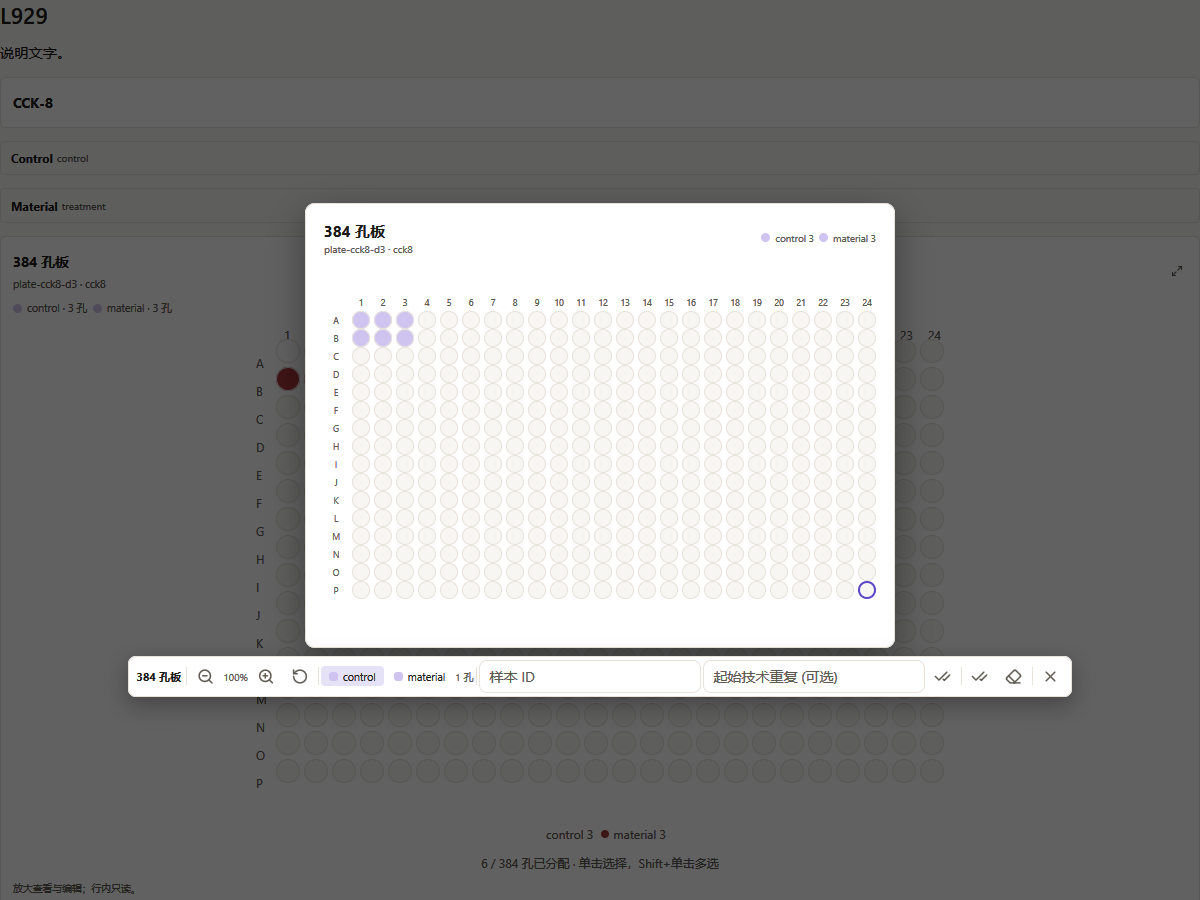
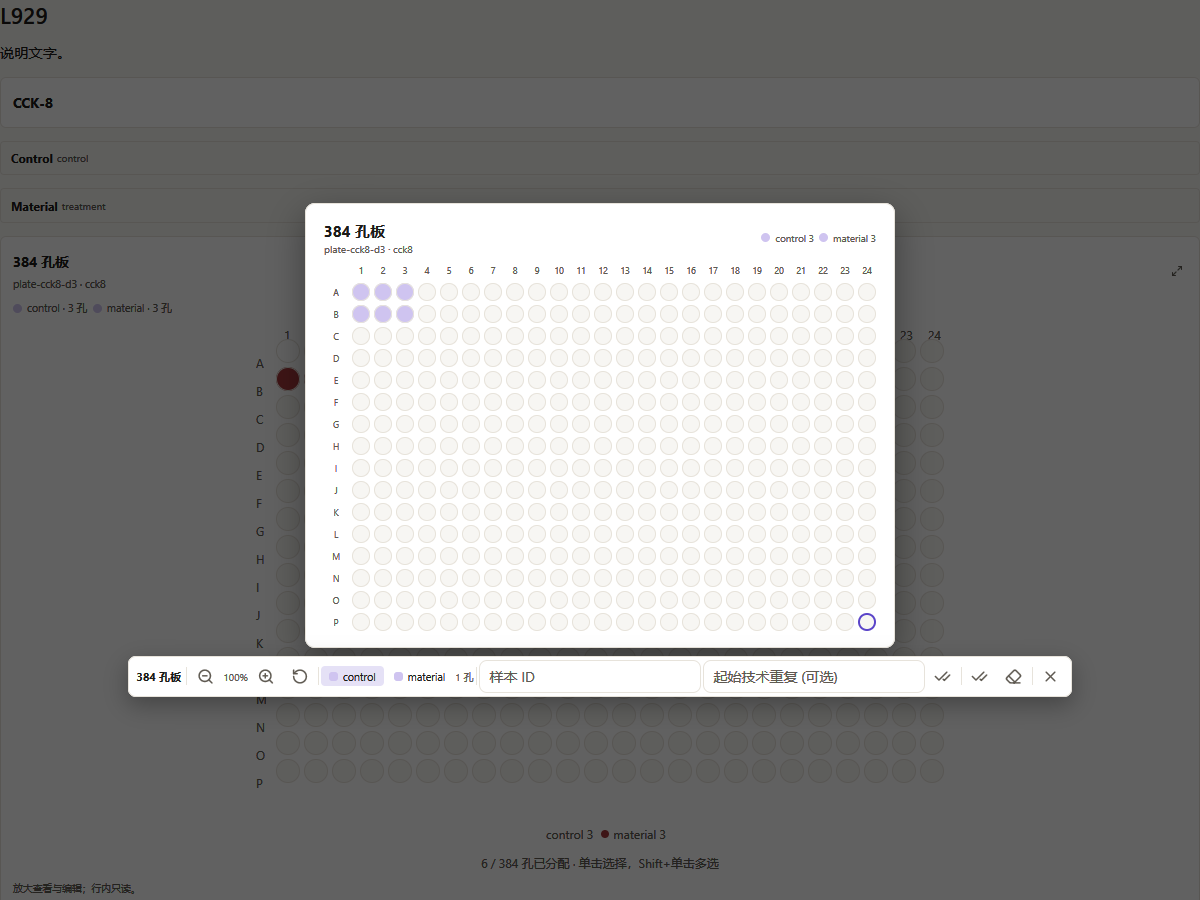
fix(ui): keep plate overlay footprint consistent

diff --git a/prototypes/mygo-run/internal/asterdoc/view.go b/prototypes/mygo-run/internal/asterdoc/view.go
@@ -53,12 +53,11 @@ type View struct {
 	PlateReplicateStart string
 	PlateSampleError    string
 	PlateZoom           float32
-	marqueeActive       bool
-	marqueeRow          int
-	marqueeCol          int
-	marqueeBase         []string
-	gridDrag            ui.Point
+	gridPointerDown     bool
+	gridPointerStart    ui.Point
 	gridDragging        bool
+	gridAdditive        bool
+	gridSuppressClick   bool
 	gridStart           ui.Point
 	gridLast            ui.Point
 	gridBase            []string
@@ -241,6 +240,8 @@ func plateGridLayout(geometry Geometry, zoom float32) (viewportW, viewportH, cel
 // modal panel or inspector: the plate itself is the surface, with one floating
 // toolbar for zoom, group choice and batch assignment.
 func (v *View) plateOverlay(c *ui.Context) {
+	suppressGridClick := v.gridSuppressClick
+	v.gridSuppressClick = false
 	if v.ExpandedPlate == "" {
 		return
 	}
@@ -375,13 +376,6 @@ func (v *View) plateOverlay(c *ui.Context) {
 							})
 						})
 						viewportW, viewportH, cell := plateGridLayout(geometry, zoom)
-						gridW := plateGridLabelWidth + plateGridGap +
-							float32(geometry.Columns)*cell +
-							float32(geometry.Columns-1)*plateGridGap
-						gridH := plateGridHeaderHeight + plateGridGap +
-							float32(geometry.Rows)*cell +
-							float32(geometry.Rows-1)*plateGridGap
-						offsetX, offsetY := (viewportW-gridW)/2, (viewportH-gridH)/2
 						selectMany := func(ids []string, additive bool) {
 							if !additive {
 								v.ExpandedWells = nil
@@ -392,8 +386,29 @@ func (v *View) plateOverlay(c *ui.Context) {
 								}
 							}
 						}
-						grid := ui.Box(c).Key("plate-grid").Size(viewportW, viewportH).Children(func() {
-							ui.Column(c).Fill().AlignItems(ui.Center).Justify(ui.Center).Children(func() {
+						applyMarquee := func() {
+							x0, y0 := v.gridStart.X, v.gridStart.Y
+							x1, y1 := v.gridLast.X, v.gridLast.Y
+							if x0 > x1 {
+								x0, x1 = x1, x0
+							}
+							if y0 > y1 {
+								y0, y1 = y1, y0
+							}
+							selected := WellsInRect(geometry, cell, plateGridGap,
+								ui.Rect{X: x0, Y: y0, W: x1 - x0, H: y1 - y0})
+							v.ExpandedWells = v.ExpandedWells[:0]
+							if v.gridAdditive {
+								v.ExpandedWells = append(v.ExpandedWells, v.gridBase...)
+							}
+							for _, id := range selected {
+								if !containsString(v.ExpandedWells, id) {
+									v.ExpandedWells = append(v.ExpandedWells, id)
+								}
+							}
+						}
+						ui.Box(c).Key("plate-grid").Size(viewportW, viewportH).Children(func() {
+							ui.Column(c).Fill().Gap(plateGridGap).AlignItems(ui.Center).Justify(ui.Center).Children(func() {
 								ui.Row(c).Gap(plateGridGap).Children(func() {
 									ui.Box(c).Width(plateGridLabelWidth).Height(plateGridHeaderHeight)
 									for col := 1; col <= geometry.Columns; col++ {
@@ -404,7 +419,7 @@ func (v *View) plateOverlay(c *ui.Context) {
 											ui.Text(c, fmt.Sprintf("%d", col)).FontSize(t.Rem(.62)).
 												TextColor(t.TextMuted).Center()
 										})
-										if btn.Clicked() && !v.gridDragging {
+										if btn.Clicked() && !v.gridDragging && !suppressGridClick {
 											ids := make([]string, 0, geometry.Rows)
 											for row := 0; row < geometry.Rows; row++ {
 												ids = append(ids, fmt.Sprintf("%s%d", rowLabel(row), col))
@@ -421,7 +436,7 @@ func (v *View) plateOverlay(c *ui.Context) {
 										btn.Children(func() {
 											ui.Text(c, rowLabel(row)).FontSize(t.Rem(.62)).TextColor(t.TextMuted).Center()
 										})
-										if btn.Clicked() && !v.gridDragging {
+										if btn.Clicked() && !v.gridDragging && !suppressGridClick {
 											ids := make([]string, 0, geometry.Columns)
 											for col := 1; col <= geometry.Columns; col++ {
 												ids = append(ids, fmt.Sprintf("%s%d", rowLabel(row), col))
@@ -429,6 +444,7 @@ func (v *View) plateOverlay(c *ui.Context) {
 											selectMany(ids, btn.ClickModifiers()&(ui.Shift|ui.Cmd) != 0)
 										}
 										for col := 1; col <= geometry.Columns; col++ {
+											col := col
 											well := fmt.Sprintf("%s%d", rowLabel(row), col)
 											group := wells[well]
 											selected := containsString(v.ExpandedWells, well)
@@ -443,7 +459,65 @@ func (v *View) plateOverlay(c *ui.Context) {
 											}
 											btn := ui.ButtonBase(c).Key(well).Size(cell, cell).Radius(cell/2).
 												Background(bg).Border(width, border).Label("孔 " + well)
-											if btn.Clicked() && !v.gridDragging {
+											cellPoint := func(x, y float32) ui.Point {
+												return ui.Point{
+													X: float32(col-1)*(cell+plateGridGap) + x,
+													Y: float32(row)*(cell+plateGridGap) + y,
+												}
+											}
+											btn = btn.HandleInput(func(event ui.InputEvent) bool {
+												if (event.Kind == ui.InputPointerDown || event.Kind == ui.InputPointerUp) &&
+													event.Button != 0 {
+													return false
+												}
+												switch event.Kind {
+												case ui.InputPointerDown:
+													point := cellPoint(event.X, event.Y)
+													v.gridPointerDown = true
+													v.gridPointerStart = ui.Point{X: event.X, Y: event.Y}
+													v.gridStart, v.gridLast = point, point
+													v.gridDragging = false
+													v.gridAdditive = event.Mods&(ui.Shift|ui.Cmd) != 0
+													v.gridBase = append(v.gridBase[:0], v.ExpandedWells...)
+													return false
+												case ui.InputPointerMove:
+													if !v.gridPointerDown {
+														return false
+													}
+													dx := event.X - v.gridPointerStart.X
+													dy := event.Y - v.gridPointerStart.Y
+													if !v.gridDragging {
+														if dx > -3 && dx < 3 && dy > -3 && dy < 3 {
+															return false
+														}
+														v.gridDragging = true
+													}
+													v.gridLast = cellPoint(event.X, event.Y)
+													applyMarquee()
+													return true
+												case ui.InputPointerUp:
+													if !v.gridPointerDown {
+														return false
+													}
+													v.gridPointerDown = false
+													if !v.gridDragging {
+														v.gridBase = nil
+														return false
+													}
+													if event.Canceled {
+														v.ExpandedWells = append(v.ExpandedWells[:0], v.gridBase...)
+													} else {
+														v.gridLast = cellPoint(event.X, event.Y)
+														applyMarquee()
+													}
+													v.gridDragging = false
+													v.gridSuppressClick = true
+													v.gridBase = nil
+													return true
+												}
+												return false
+											})
+											if btn.Clicked() && !v.gridDragging && !suppressGridClick {
 												mods := btn.ClickModifiers()
 												if mods&(ui.Shift|ui.Cmd) != 0 {
 													if selected {
@@ -460,39 +534,6 @@ func (v *View) plateOverlay(c *ui.Context) {
 								}
 							})
 						})
-						grid.Draggable(&v.gridDrag, ui.DraggableOptions{})
-						if grid.Dragging() {
-							px, py, ok := grid.PointerPosition()
-							if ok {
-								local := ui.Point{
-									X: px - offsetX - plateGridLabelWidth - plateGridGap,
-									Y: py - offsetY - plateGridHeaderHeight - plateGridGap,
-								}
-								if !v.gridDragging {
-									v.gridDragging = true
-									v.gridStart, v.gridLast = local, local
-									v.gridBase = append([]string(nil), v.ExpandedWells...)
-									if c.Modifiers()&(ui.Shift|ui.Cmd) == 0 {
-										v.ExpandedWells = nil
-									}
-								}
-								v.gridLast = local
-								r := ui.Rect{X: v.gridStart.X, Y: v.gridStart.Y,
-									W: local.X - v.gridStart.X, H: local.Y - v.gridStart.Y}
-								selected := WellsInRect(geometry, cell, plateGridGap, r)
-								v.ExpandedWells = append([]string(nil), v.gridBase...)
-								for _, id := range selected {
-									if !containsString(v.ExpandedWells, id) {
-										v.ExpandedWells = append(v.ExpandedWells, id)
-									}
-								}
-							}
-						} else if v.gridDragging {
-							v.gridDragging = false
-							if v.gridLast.X == v.gridStart.X && v.gridLast.Y == v.gridStart.Y {
-								v.ExpandedWells = append([]string(nil), v.gridBase...)
-							}
-						}
 					})
 				})
 				// Floating toolbar: directly above the plate, not a modal panel.

diff --git a/prototypes/mygo-run/internal/asterdoc/asterdoc_test.go b/prototypes/mygo-run/internal/asterdoc/asterdoc_test.go
@@ -2,7 +2,6 @@ package asterdoc
 
 import (
 	"encoding/json"
-	"image/png"
 	"os"
 	"strconv"
 	"strings"
@@ -104,10 +103,6 @@ func TestViewRendersNativePlateAndAssignRewritesSource(t *testing.T) {
 		v.Render(c)
 	}, 1000, 900)
 	tt.Frame()
-	if f, err := os.Create("evidence-asterdoc.png"); err == nil {
-		png.Encode(f, tt.Image())
-		f.Close()
-	}
 	if !tt.HasText("96 孔板") || !tt.HasText("plate-cck8-d3") {
 		t.Fatalf("plate module did not render: %q", tt.Texts())
 	}
@@ -228,10 +223,6 @@ func TestPlateZoomOverlaySelectsWellsAndReportsAssignment(t *testing.T) {
 	if !tt.HasText("1 孔") {
 		t.Fatalf("selection missing: %q", tt.Texts())
 	}
-	if f, err := os.Create("evidence-plate-zoom.png"); err == nil {
-		png.Encode(f, tt.Image())
-		f.Close()
-	}
 	if err := tt.Click("分配到 control"); err != nil {
 		t.Fatalf("assign: %v", err)
 	}
@@ -268,8 +259,49 @@ func TestPlateZoomOverlaySelectsWellsAndReportsAssignment(t *testing.T) {
 	tt.Frame()
 	tt.Release(cx, cy)
 	tt.Frame()
-	if !tt.HasText("3 孔") {
-		t.Fatalf("marquee selection missing: %q", tt.Texts())
+	if _, ok := tt.Find("3 孔"); !ok || len(v.ExpandedWells) != 3 ||
+		!containsString(v.ExpandedWells, "A1") ||
+		!containsString(v.ExpandedWells, "A2") ||
+		!containsString(v.ExpandedWells, "A3") {
+		t.Fatalf("marquee selected %v; want A1, A2, A3", v.ExpandedWells)
+	}
+}
+func TestPlate384OverlayMarqueeUsesRows(t *testing.T) {
+	source := strings.Replace(sample, "format: 96", "format: 384", 1)
+	doc, err := Parse(source)
+	if err != nil {
+		t.Fatal(err)
+	}
+	v := &View{Doc: doc, Allowed: map[string]bool{PermDocumentEdit: true}}
+	tt := ui.NewTester(func(c *ui.Context) {
+		c.SetTheme(theme.LightTheme())
+		v.Render(c)
+	}, 1200, 900)
+	tt.Frame()
+	if err := tt.Click("放大孔板"); err != nil {
+		t.Fatal(err)
+	}
+	tt.Frame()
+	center := func(well string) (float32, float32) {
+		rect, ok := tt.Find("孔 " + well)
+		if !ok {
+			t.Fatalf("well %s not found", well)
+		}
+		return rect.X + rect.W/2, rect.Y + rect.H/2
+	}
+	ax, ay := center("A1")
+	cx, cy := center("C1")
+	tt.Press(ax, ay)
+	tt.Frame()
+	tt.Move(cx, cy)
+	tt.Frame()
+	tt.Release(cx, cy)
+	tt.Frame()
+	if _, ok := tt.Find("3 孔"); !ok || len(v.ExpandedWells) != 3 ||
+		!containsString(v.ExpandedWells, "A1") ||
+		!containsString(v.ExpandedWells, "B1") ||
+		!containsString(v.ExpandedWells, "C1") {
+		t.Fatalf("vertical marquee selected %v; want A1, B1, C1", v.ExpandedWells)
 	}
 }
 

diff --git a/docs/product/evidence/UI-DES-10/README.md b/docs/product/evidence/UI-DES-10/README.md
@@ -22,9 +22,15 @@ Post-change captures rendered through the `ui.Tester` harness against the produc
 - [design-plate-tester-900x600.png](design-plate-tester-900x600.png) — Design pane `12 孔板` section with the `流程 / 12 孔板 / 配液单` switch (the prep-calculator link) and the source-labeled budget bar.
 - [design-prep-tester-900x600.png](design-prep-tester-900x600.png) — Design pane `配液单` dilution-calculator surface (`母液 2.5 µL · 稀释液 7.5 µL`).
 
-All captures show the `设计标注` fallback with Core budget fields `—` and no OperationSpec v2 time data; the sources are not combined. `internal/asterdoc` tests cover the shared canvas, scaled wells, and interactive 6/12/24/48/96/384 geometry. The legacy assay assignment path remains 12-well-specific.
+Post-change native-app captures after the fixed-canvas update (`mygo-automation`; 900×600 logical window, emitted as 1328×888 PNGs on this Windows host). The modal overlays the Design page; these prove well sizing and selection, not prep linkage or budget-bar content:
+- [native-12-light-900x600.png](native-12-light-900x600.png) — light, 12 wells, C4 selected and assigned to `g-control`.
+- [native-12-dark-900x600.png](native-12-dark-900x600.png) — dark, 12 wells, C4 selected and assigned to `g-control`.
+- [native-384-light-900x600.png](native-384-light-900x600.png) — light, 384 wells, P24 selected and assigned to `g-control`.
+- [native-384-dark-900x600.png](native-384-dark-900x600.png) — dark, 384 wells, P24 selected and assigned to `g-control`.
 
-Verification (`O:/des10/prototypes/mygo-run`, 2026-11-16):
+The design-page captures show the `设计标注` fallback with Core budget fields `—` and no OperationSpec v2 time data; the sources are not combined. Native-app overlays focus on well geometry and are not budget-bar evidence. `internal/asterdoc` tests cover the shared canvas, scaled wells, and interactive 6/12/24/48/96/384 geometry. The legacy assay assignment path remains 12-well-specific.
+
+Verification (`O:/ui-des10fix/prototypes/mygo-run`, 2026-11-16):
 
 ```text
 ok  asterlab-mygo-prototype/internal/asterdoc      1.810s
@@ -33,7 +39,7 @@ ok  asterlab-mygo-prototype/internal/workflowtree  0.324s
 ok  asterlab-mygo-prototype/internal/uikit/plate   2.181s
 ```
 
-Focused plate runs: `TestPlateZoomOverlaySelectsWellsAndReportsAssignment`, `TestPlateFormatsUseEditableOverlay` (6/12/24/48/96/384), `TestPlateGridLayoutKeepsCanvasAndScalesWells`, `TestPlateMixPlanDerivesGelAndSeedingRows`, `TestPlateMixRejectsInconsistentPlans` — all PASS. Impeccable `detect --json internal/asterdoc/view.go` — `[]` (no findings).
+Package-suite coverage includes `TestPlateZoomOverlaySelectsWellsAndReportsAssignment`, `TestPlateFormatsUseEditableOverlay` (6/12/24/48/96/384), `TestPlateGridLayoutKeepsCanvasAndScalesWells`, `TestPlateMixPlanDerivesGelAndSeedingRows`, and `TestPlateMixRejectsInconsistentPlans` — all PASS.
 
 ## 缺口
 
